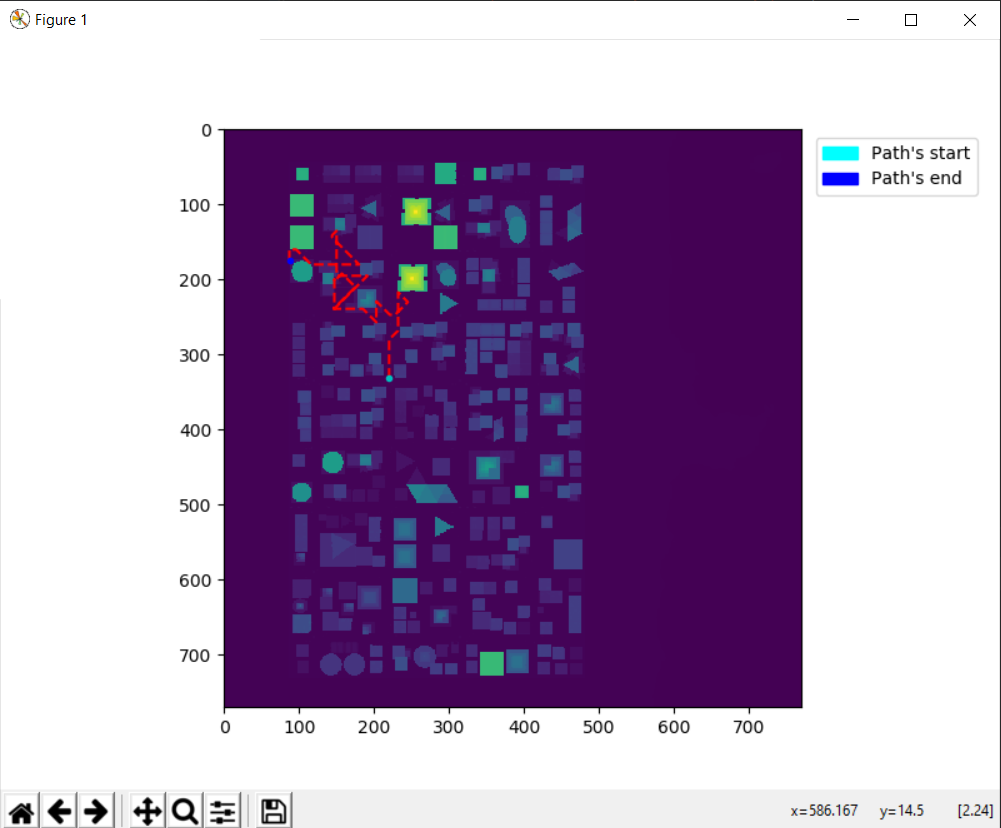
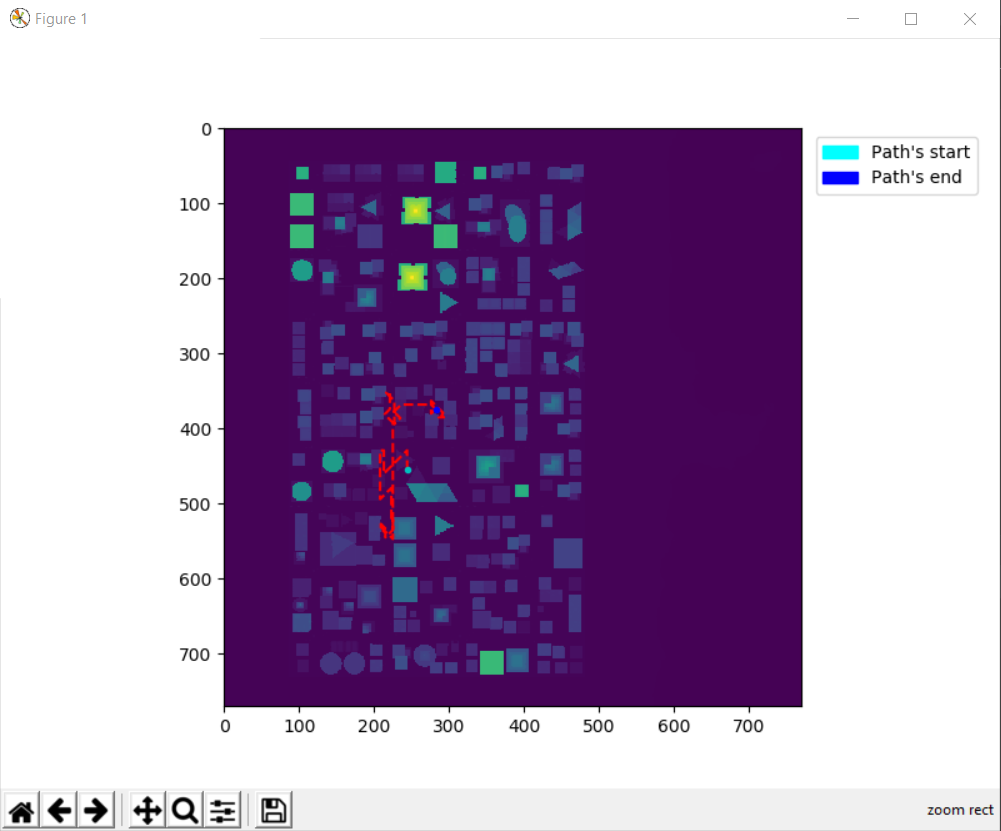
Before Time Test

diff --git a/Tests/tests.py b/Tests/tests.py
@@ -14,15 +14,12 @@ def simple_example(pg: PathGenerator):
                  path_num=1, to_print=True, weight=2)
 
 
-def path_cost_test_1(pg, flag, path_type, desired_cost=1000, path_number=100, print_paths=False):
-    if (flag == ConstraintType.DISTANCE or flag == ConstraintType.TIME) and\
+def get_paths_constraint_error(pg, flag, path_type, desired_cost=1000.0, path_number=100, print_paths=False, w=2.0):
+    if (flag == ConstraintType.DISTANCE or flag == ConstraintType.TIME) and \
             (path_type == PathType.MAP_ROAM or path_type == PathType.AREA_EXPLORE):
-        print(f"\n************** Path Length Test 1  **************")
-        print(f"                Path Type: \'{path_type}\'\n")
-        print(f"Ran with desired_cost = {desired_cost} and path_number = {path_number}")
 
         paths = pg.gen_paths(flag=flag, constraint=desired_cost, path_type=path_type, to_print=print_paths,
-                             path_num=path_number, weight=2)
+                             path_num=path_number, weight=w)
         cost_sum = 0
         error_sum = 0
         for i in range(len(paths)):
@@ -34,16 +31,59 @@ def path_cost_test_1(pg, flag, path_type, desired_cost=1000, path_number=100, pr
             error_sum += abs(desired_cost - path_cost)
         avg_distance = cost_sum / path_number
         avg_error = error_sum / path_number
-        if flag == ConstraintType.DISTANCE:
-            cost_type = 'distance'
-            unit = 'meters'
-        else:
-            cost_type = 'time'
-            unit = 'seconds'
-        print(f"The average {cost_type} of a path is: {avg_distance} {unit}")
-        print(f"The average error is: {avg_error}")
+        return avg_error, avg_distance
     else:
         print("Wrong flag or path type value")
+
+
+def path_generating_error_test(pg: PathGenerator, flag: ConstraintType, desired_cost: float, path_num: int):
+    if flag == ConstraintType.DISTANCE:
+        constraint = "distance"
+    else:
+        constraint = "time"
+
+    print(f"\n************** Path Distance Test  **************\n")
+    print("\nInitial averages:")
+    initial_Astar_error_avg, initial_Astar_distance_avg = get_paths_constraint_error(pg, flag=flag,
+                                                                                     path_type=PathType.MAP_ROAM,
+                                                                                     desired_cost=desired_cost,
+                                                                                     path_number=path_num, w=2.0)
+    initial_Prob_error_avg, initial_Prob_distance_avg = get_paths_constraint_error(pg, flag=flag,
+                                                                                   path_type=PathType.AREA_EXPLORE,
+                                                                                   desired_cost=desired_cost,
+                                                                                   path_number=path_num)
+    print(f"A*:")
+    print(f"Average error: {initial_Astar_error_avg}\nAverage {constraint}: {initial_Astar_distance_avg}")
+    print(f"Probabilistic:")
+    print(f"Average error: {initial_Prob_error_avg}\nAverage {constraint}: {initial_Prob_distance_avg}")
+    pg.map_zoom_out(2)
+    print("\n\nAfter zooming out (2 times the initial map):")
+    Astar_error_avg_zoom_out, Astar_distance_avg_zoom_out = get_paths_constraint_error(pg, flag=flag,
+                                                                                       path_type=PathType.MAP_ROAM,
+                                                                                       desired_cost=desired_cost,
+                                                                                       path_number=path_num, w=2.0)
+    Prob_error_avg_zoom_out, Prob_distance_avg_zoom_out = get_paths_constraint_error(pg, flag=flag,
+                                                                                     path_type=PathType.AREA_EXPLORE,
+                                                                                     desired_cost=desired_cost,
+                                                                                     path_number=path_num)
+    print(f"A*:")
+    print(f"Average error: {Astar_error_avg_zoom_out}\nAverage {constraint}: {Astar_distance_avg_zoom_out}")
+    print(f"Probabilistic:")
+    print(f"Average error: {Prob_error_avg_zoom_out}\nAverage {constraint}: {Prob_distance_avg_zoom_out}")
+    pg.map_zoom_in(4)
+    print("\n\nAfter zooming in (2 times the initial map):")
+    Astar_error_avg_zoom_in, Astar_distance_avg_zoom_in = get_paths_constraint_error(pg, flag=flag,
+                                                                                     path_type=PathType.MAP_ROAM,
+                                                                                     desired_cost=desired_cost,
+                                                                                     path_number=path_num, w=2.0)
+    Prob_error_avg_zoom_in, Prob_distance_avg_zoom_in = get_paths_constraint_error(pg, flag=flag,
+                                                                                   path_type=PathType.AREA_EXPLORE,
+                                                                                   desired_cost=desired_cost,
+                                                                                   path_number=path_num)
+    print(f"A*:")
+    print(f"Average error: {Astar_error_avg_zoom_in}\nAverage {constraint}: {Astar_distance_avg_zoom_in}")
+    print(f"Probabilistic:")
+    print(f"Average error: {Prob_error_avg_zoom_in}\nAverage {constraint}: {Prob_distance_avg_zoom_in}")
 
 
 def path_generating_time_test(pg, flag, path_type, desired_cost=1000, path_number=100, print_paths=False):
@@ -70,13 +110,7 @@ if __name__ == "__main__":
     dsm_ = create_map(Inputpath, FileName)
 
     pg = PathGenerator(velocity=50, flight_height=50, dsm=dsm_, pixel_dist=2)
-    simple_example(pg)
+    # simple_example(pg)
+    # path_generating_error_test(pg, flag=ConstraintType.DISTANCE, desired_cost=2001, path_num=4)
+    # path_generating_error_test(pg, flag=ConstraintType.TIME, desired_cost=50, path_num=4)
 
-    '''
-    path_cost_test_1(pg, flag=ConstraintType.DISTANCE, path_type=PathType.MAP_ROAM, desired_cost=2000,
-                     print_paths=False, path_number=1000)
-    pg.map_zoom_out(2)
-    path_cost_test_1(pg, flag=ConstraintType.DISTANCE, path_type=PathType.MAP_ROAM, desired_cost=2000,
-                     print_paths=False, path_number=1000)
-    pg.map_zoom_in(4)
-    '''

diff --git a/DSM_Paths/path_generator.py b/DSM_Paths/path_generator.py
@@ -317,10 +317,12 @@ class PathGenerator:
         path = [cur_pos]
         directions = [[-1, 0], [0, -1], [1, 0], [0, 1], [1, 1], [1, -1], [-1, 1], [-1, -1]]
         last_move = 0
+        last_legal_move = 0
         path_cost = 0
         while True:
             new_pos_option = [sum(x) for x in zip(directions[last_move], cur_pos)]
             if self._can_fly_over_in_bound(new_pos_option) and random.randrange(0, 100) <= 96:
+                last_legal_move = last_move
                 path += [new_pos_option]
 
                 x_dist_squared = math.pow(new_pos_option[0] - cur_pos[0], 2)
@@ -328,14 +330,13 @@ class PathGenerator:
                 path_cost += math.sqrt(x_dist_squared + y_dist_squared) * pixel_cost
 
                 if abs(max_cost - path_cost) < pixel_cost:
-                    path.pop()
                     return path
 
                 cur_pos = new_pos_option
             else:
                 while True:
                     move = random.randrange(0, 8)
-                    sum_temp = [sum(x) for x in zip(directions[last_move], directions[move])]
+                    sum_temp = [sum(x) for x in zip(directions[last_legal_move], directions[move])]
                     if sum_temp != [0, 0]:
                         break
                 last_move = move
@@ -384,14 +385,14 @@ class PathGenerator:
         This method creates a path from the given starting location to a randomized end
         location with the cost of max_cost.
         """
-        path = []
+        path = [start_location]
         cur_start = start_location
         while True:
             next_goal = self._gen_random_point_under_constraints()  # Note: replaced the loop with this method.
-            path += self.__weighted_a_star(cur_start, next_goal, weight)
+            path += self.__weighted_a_star(cur_start, next_goal, weight)[1:]
             cur_start = path[-1]
-            if len(path) * pixel_cost > max_cost:
-                return path[:int(max_cost / pixel_cost)]
+            if (len(path) - 1) * pixel_cost > max_cost:
+                return path[:int(max_cost / pixel_cost) + 1]
 
     def _gen_random_point_under_constraints(self):
         """
